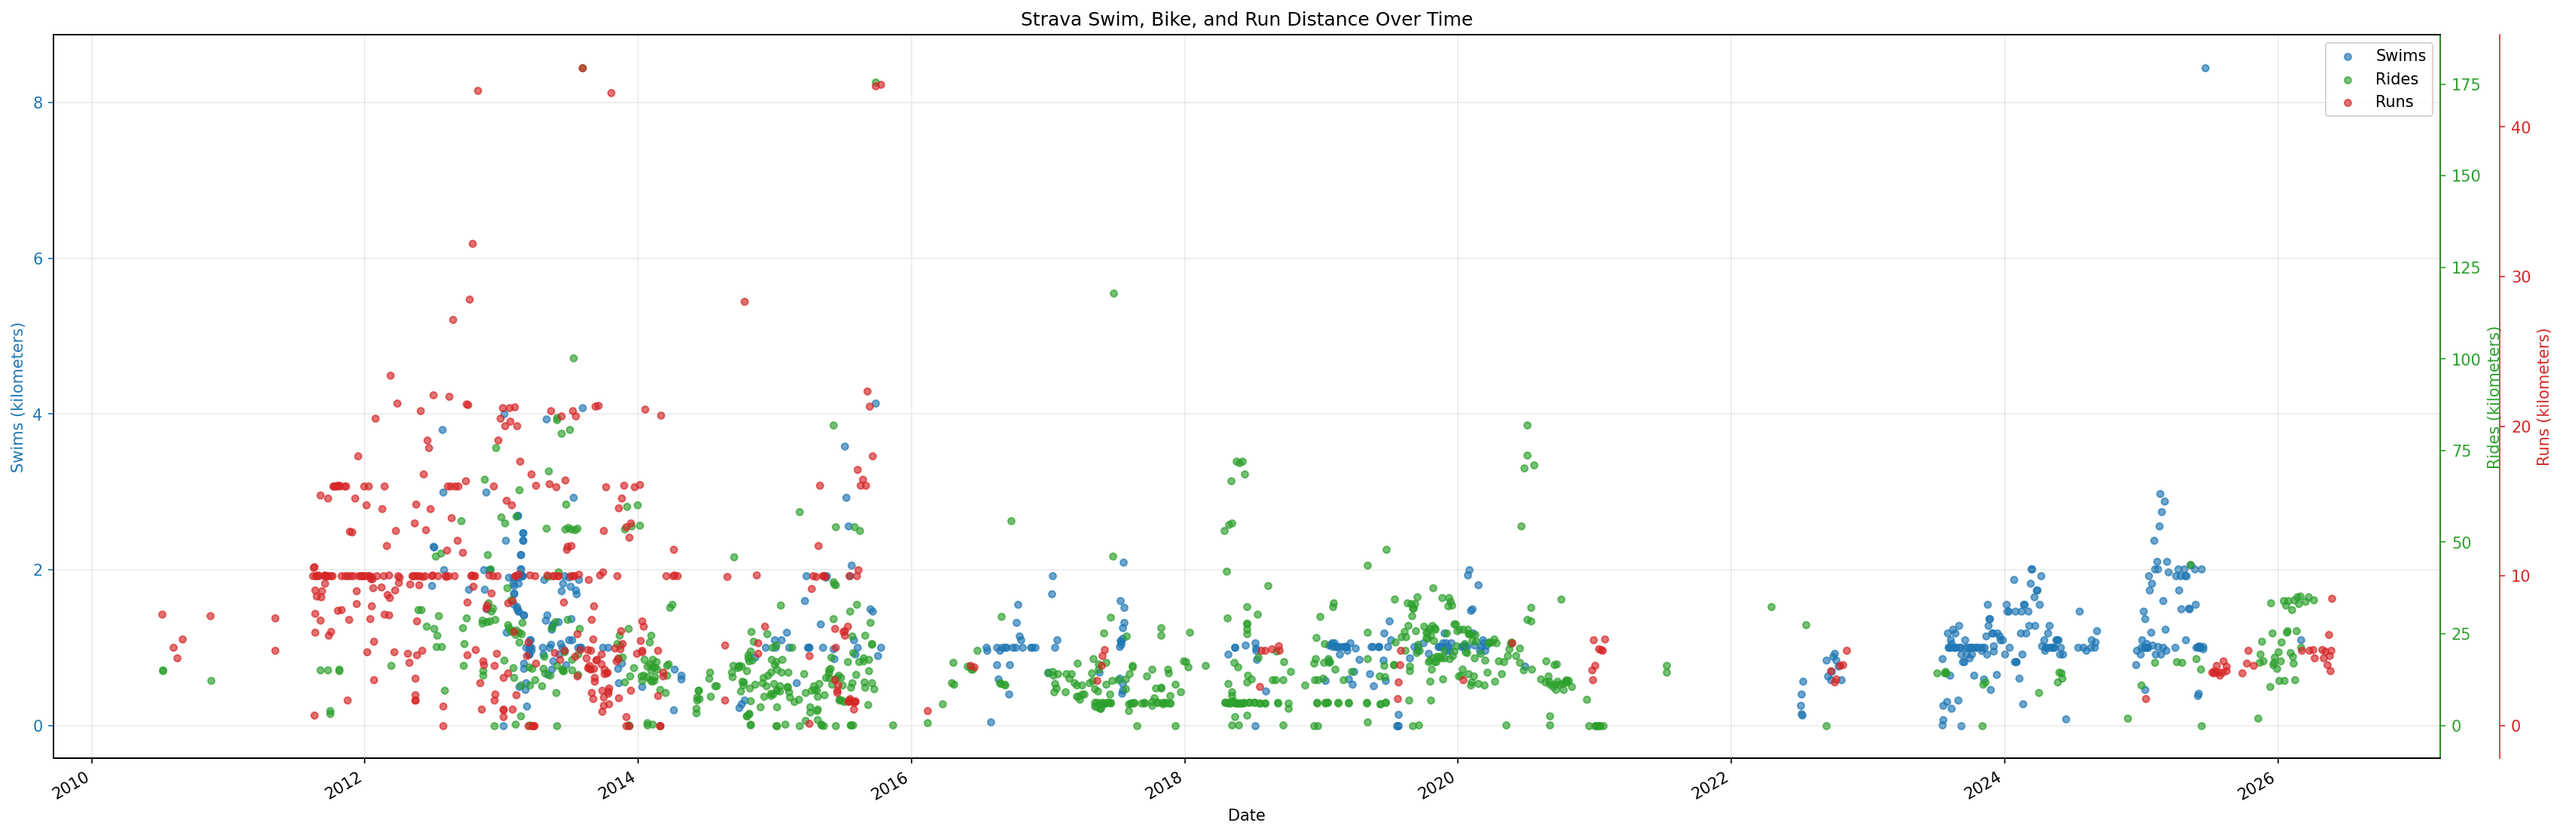
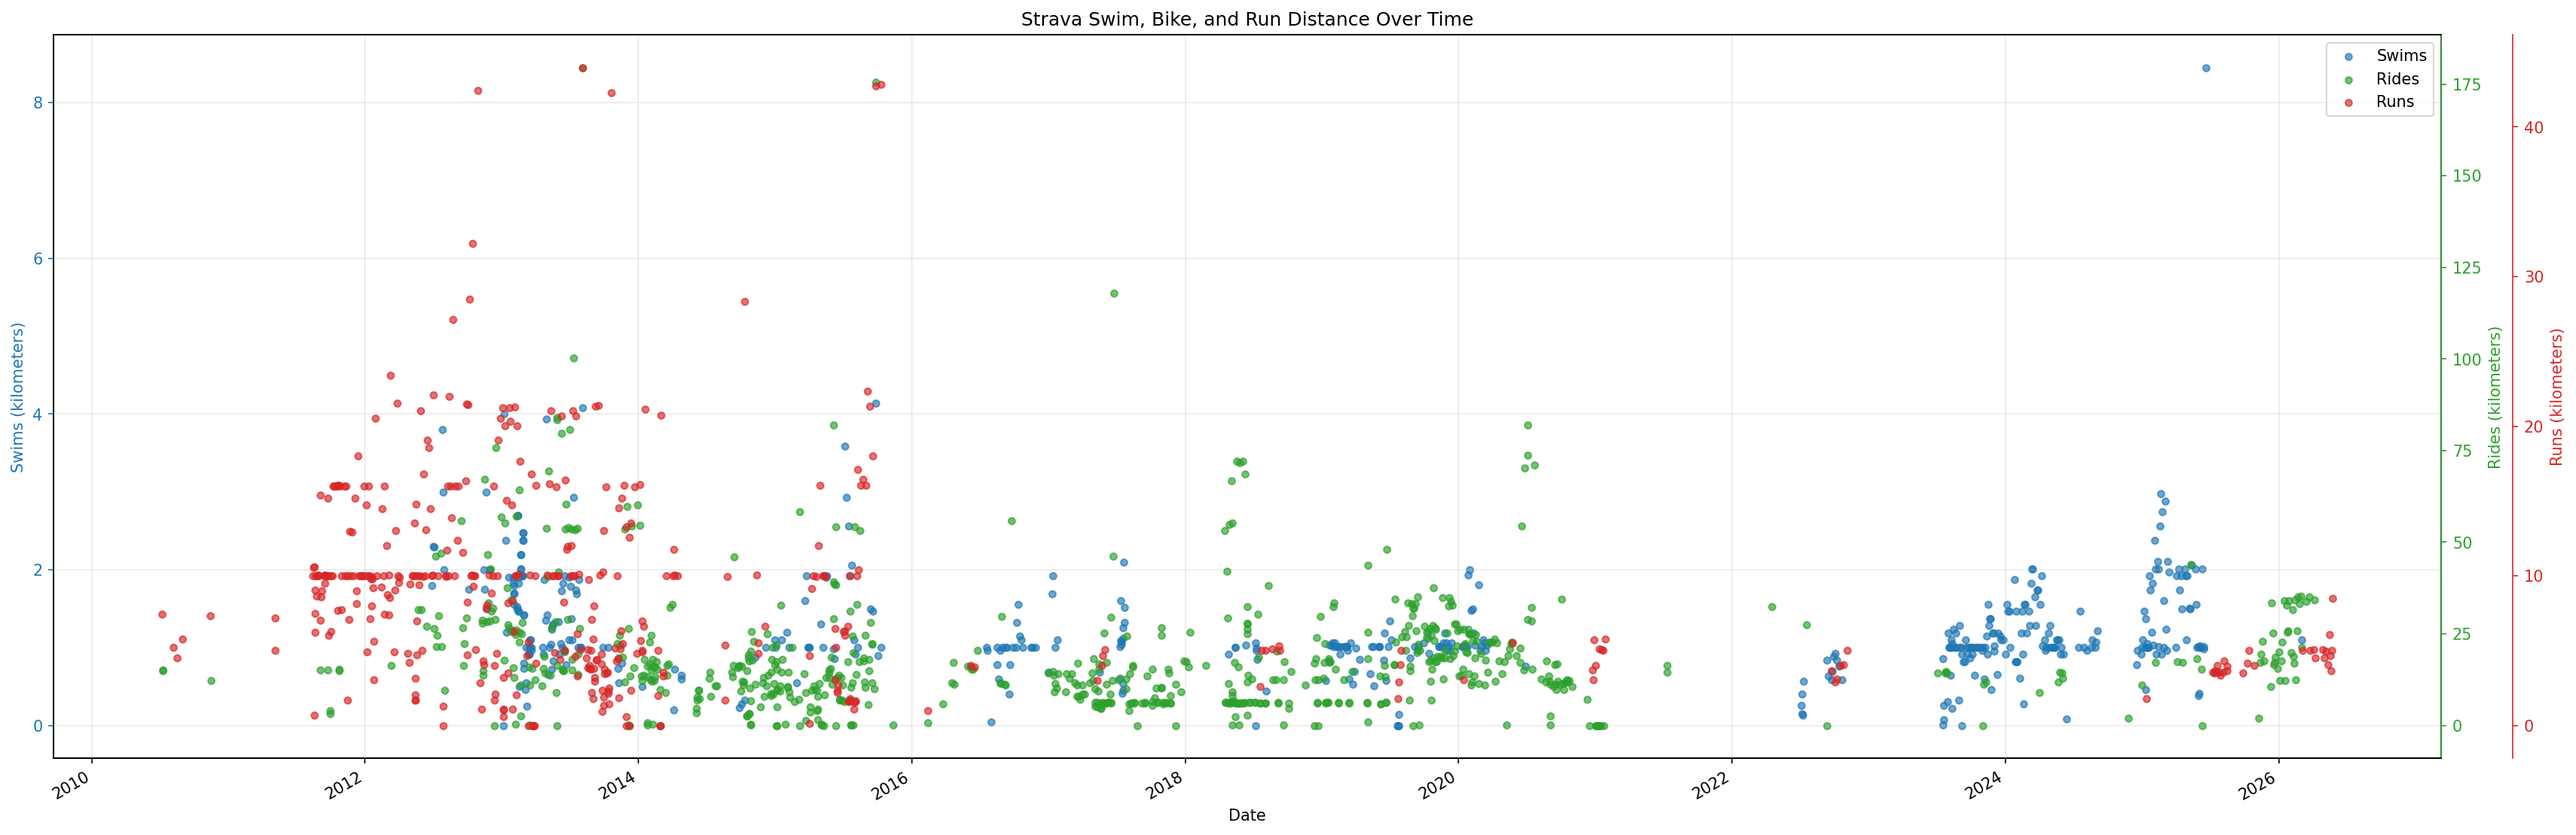
Separate combined chart right axes

diff --git a/fitness/tests/test_strava_runs.py b/fitness/tests/test_strava_runs.py
@@ -296,7 +296,7 @@ class OutputTests(unittest.TestCase):
         self.assertEqual([spec["side"] for spec in specs], ["left", "right", "right"])
         self.assertIsNone(specs[0]["offset"])
         self.assertIsNone(specs[1]["offset"])
-        self.assertEqual(specs[2]["offset"], 1.025)
+        self.assertEqual(specs[2]["offset"], 1.030)
         self.assertEqual(strava_runs.combined_subplot_left_margin(), 0.055)
         self.assertEqual(strava_runs.combined_subplot_right_margin(), 0.935)
 

diff --git a/fitness/strava_runs.py b/fitness/strava_runs.py
@@ -415,7 +415,7 @@ def combined_axis_specs():
     return [
         {"sport": "swim", "side": "left", "offset": None},
         {"sport": "bike", "side": "right", "offset": None},
-        {"sport": "run", "side": "right", "offset": 1.025},
+        {"sport": "run", "side": "right", "offset": 1.030},
     ]
 
 
